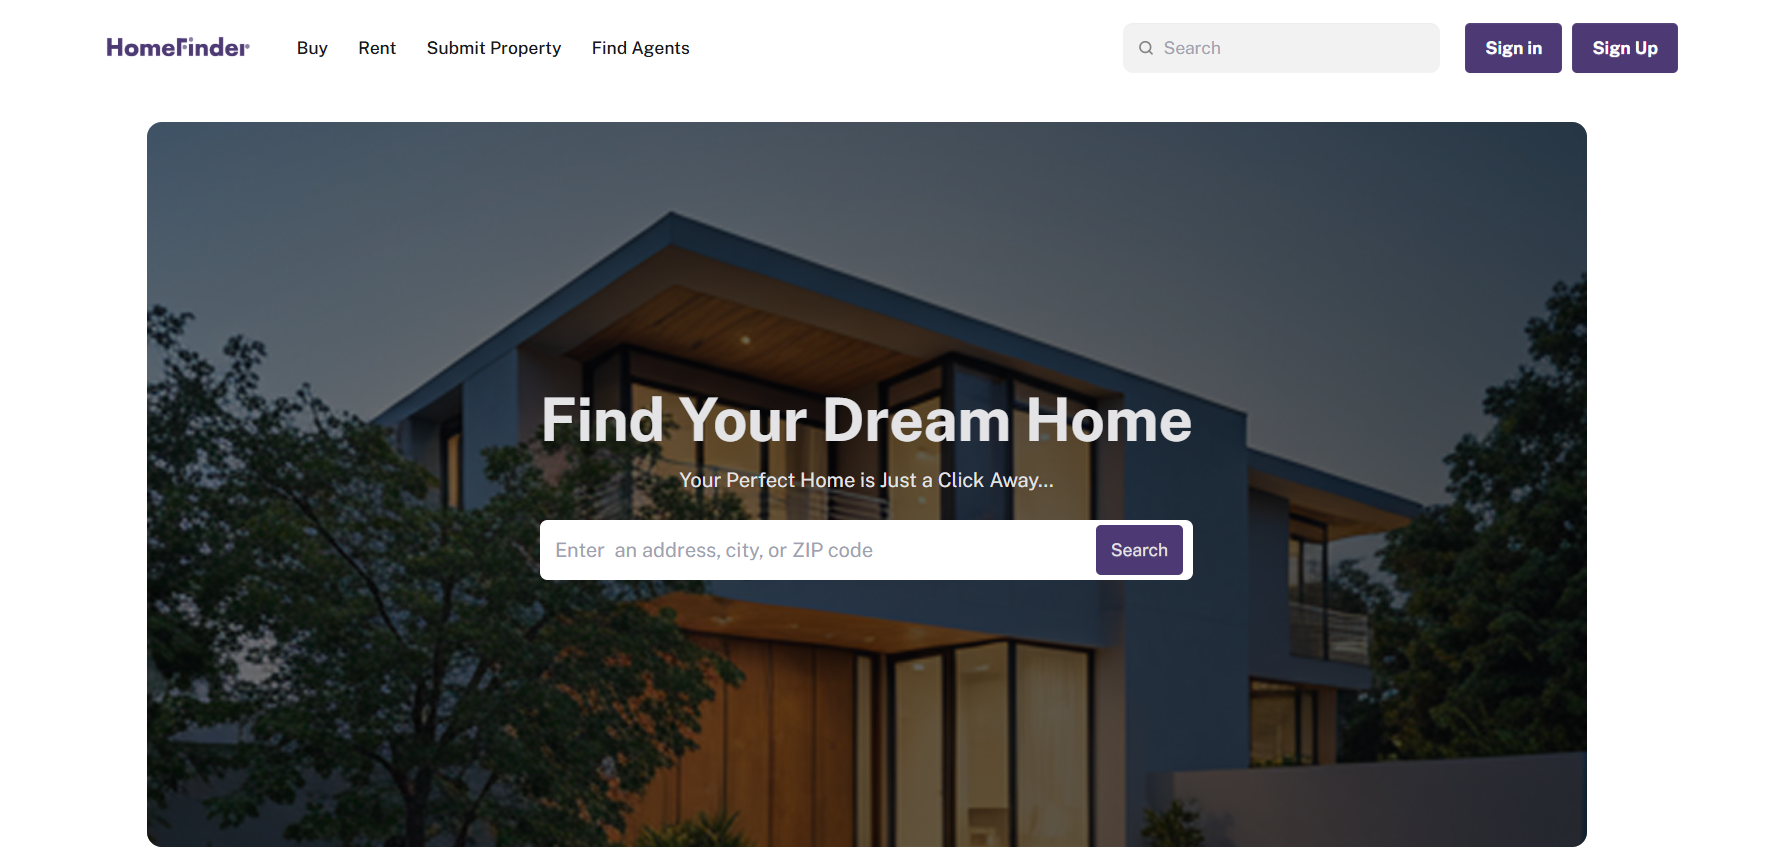
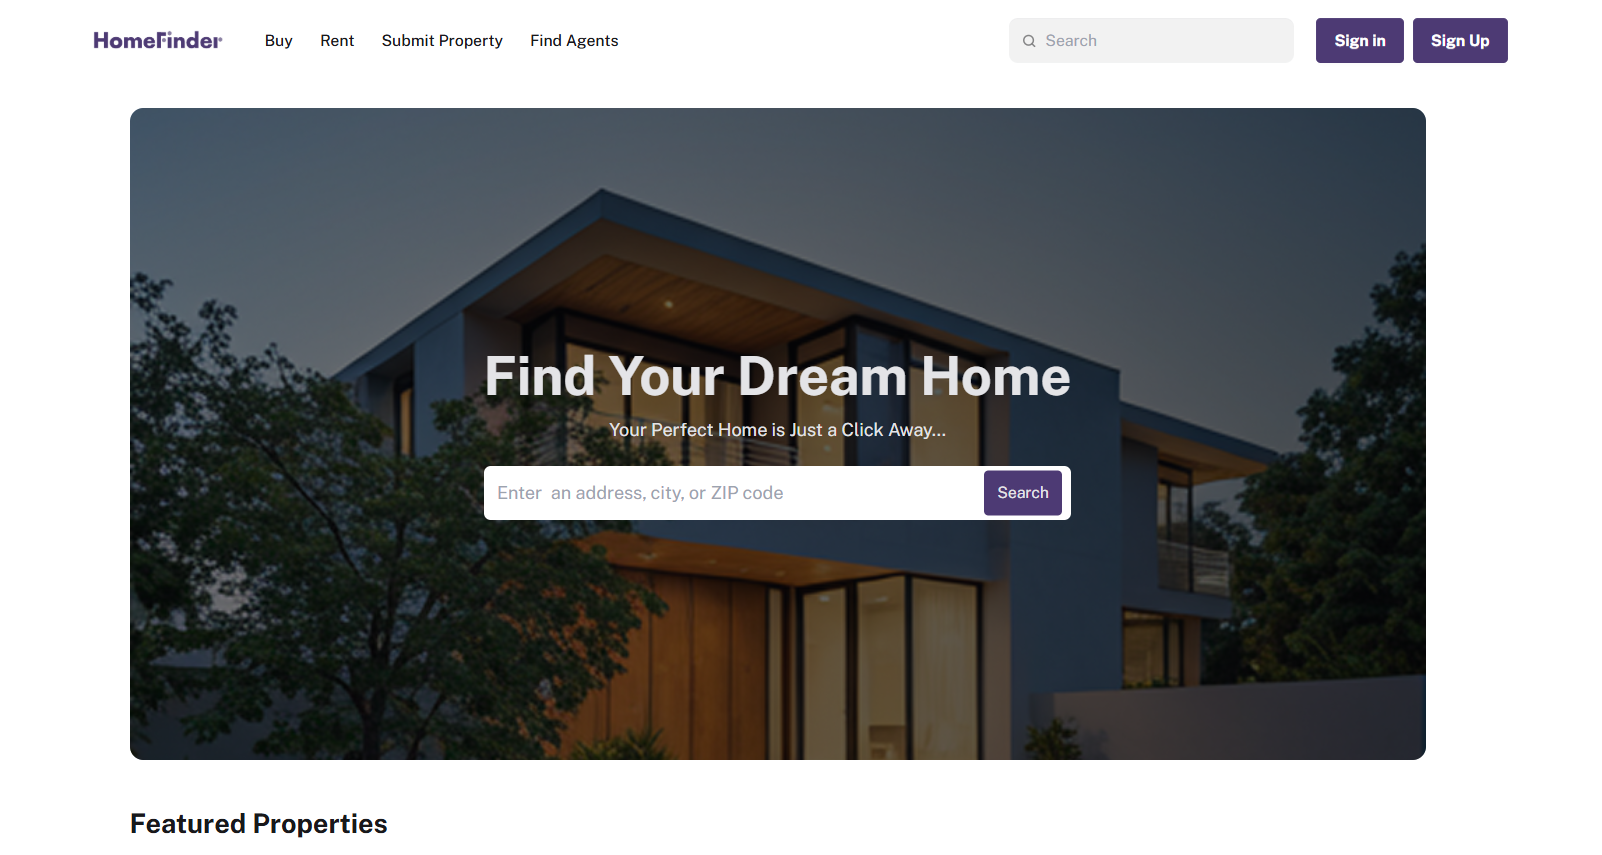
added project showcase section

diff --git a/index.html b/index.html
@@ -292,7 +292,28 @@
             </div> -->
 
 
-            <div class="grid grid-cols-1 lg:grid-cols-3 gap-3 mt-5">
+            <div class="grid grid-cols-1 lg:grid-cols-3 gap-5 mt-5">
+
+                <div class="bg-soft_trasparet_vibe border border-black/25 drop-shadow-lg shadow-lg rounded-lg  p-6 ">
+                    <img class="rounded-md" src="./assets/images/project_portfolio.png" alt="">
+                    <h2 class="text-xl font-bold mt-4">Portfolio Site</h2>
+                    <p class="text-base mt-2">My personal site and portfolio highlighting my journey as a web developer.
+                    </p>
+                    <a class="btn bg-btn_main rounded-full px-7 text-base mt-3"
+                        href="https://shakij-site.vercel.app/">Live</a>
+                </div>
+
+
+                <div class="bg-soft_trasparet_vibe border border-black/25 drop-shadow-lg shadow-lg rounded-lg  p-6 ">
+                    <img class="rounded-md" src="./assets/images/project_flowerzone.png" alt="">
+                    <h2 class="text-xl font-bold mt-4">Flower Zone</h2>
+                    <p class="text-base mt-2">Flower Zone is an online flower shop offering fresh, beautiful blooms and
+                        plants with elegant designs and affordable deals.</p>
+                    <a class="btn bg-btn_main rounded-full px-7 text-base mt-3"
+                        href="https://flower-zone.vercel.app/">Live</a>
+                </div>
+
+
 
                 <div class="bg-soft_trasparet_vibe border border-black/25 drop-shadow-lg shadow-lg rounded-lg  p-6 ">
                     <img class="rounded-md" src="./assets/images/project_homefinder.png" alt="">
@@ -302,6 +323,26 @@
                         experience.</p>
                     <a class="btn bg-btn_main rounded-full px-7 text-base mt-3"
                         href="https://homes-finder.vercel.app/">Live</a>
+                </div>
+
+
+
+                <div class="bg-soft_trasparet_vibe border border-black/25 drop-shadow-lg shadow-lg rounded-lg  p-6 ">
+                    <img class="rounded-md" src="./assets/images/project_influencer-gear.png" alt="">
+                    <h2 class="text-xl font-bold mt-4">Influencer Gear </h2>
+                    <p class="text-base mt-2">Influencer Gear offers cameras and accessories every creator needs for
+                        daily content creation.</p>
+                    <a class="btn bg-btn_main rounded-full px-7 text-base mt-3" href="#">Live</a>
+                </div>
+
+
+
+                <div class="bg-soft_trasparet_vibe border border-black/25 drop-shadow-lg shadow-lg rounded-lg  p-6 ">
+                    <img class="rounded-md" src="./assets/images/project_legal-solution.png" alt="">
+                    <h2 class="text-xl font-bold mt-4">Legal Solution</h2>
+                    <p class="text-base mt-2">Legal Solution delivers clear, reliable, and accessible legal support for
+                        individuals and businesses.</p>
+                    <a class="btn bg-btn_main rounded-full px-7 text-base mt-3" href="#">Live</a>
                 </div>
 
             </div>
